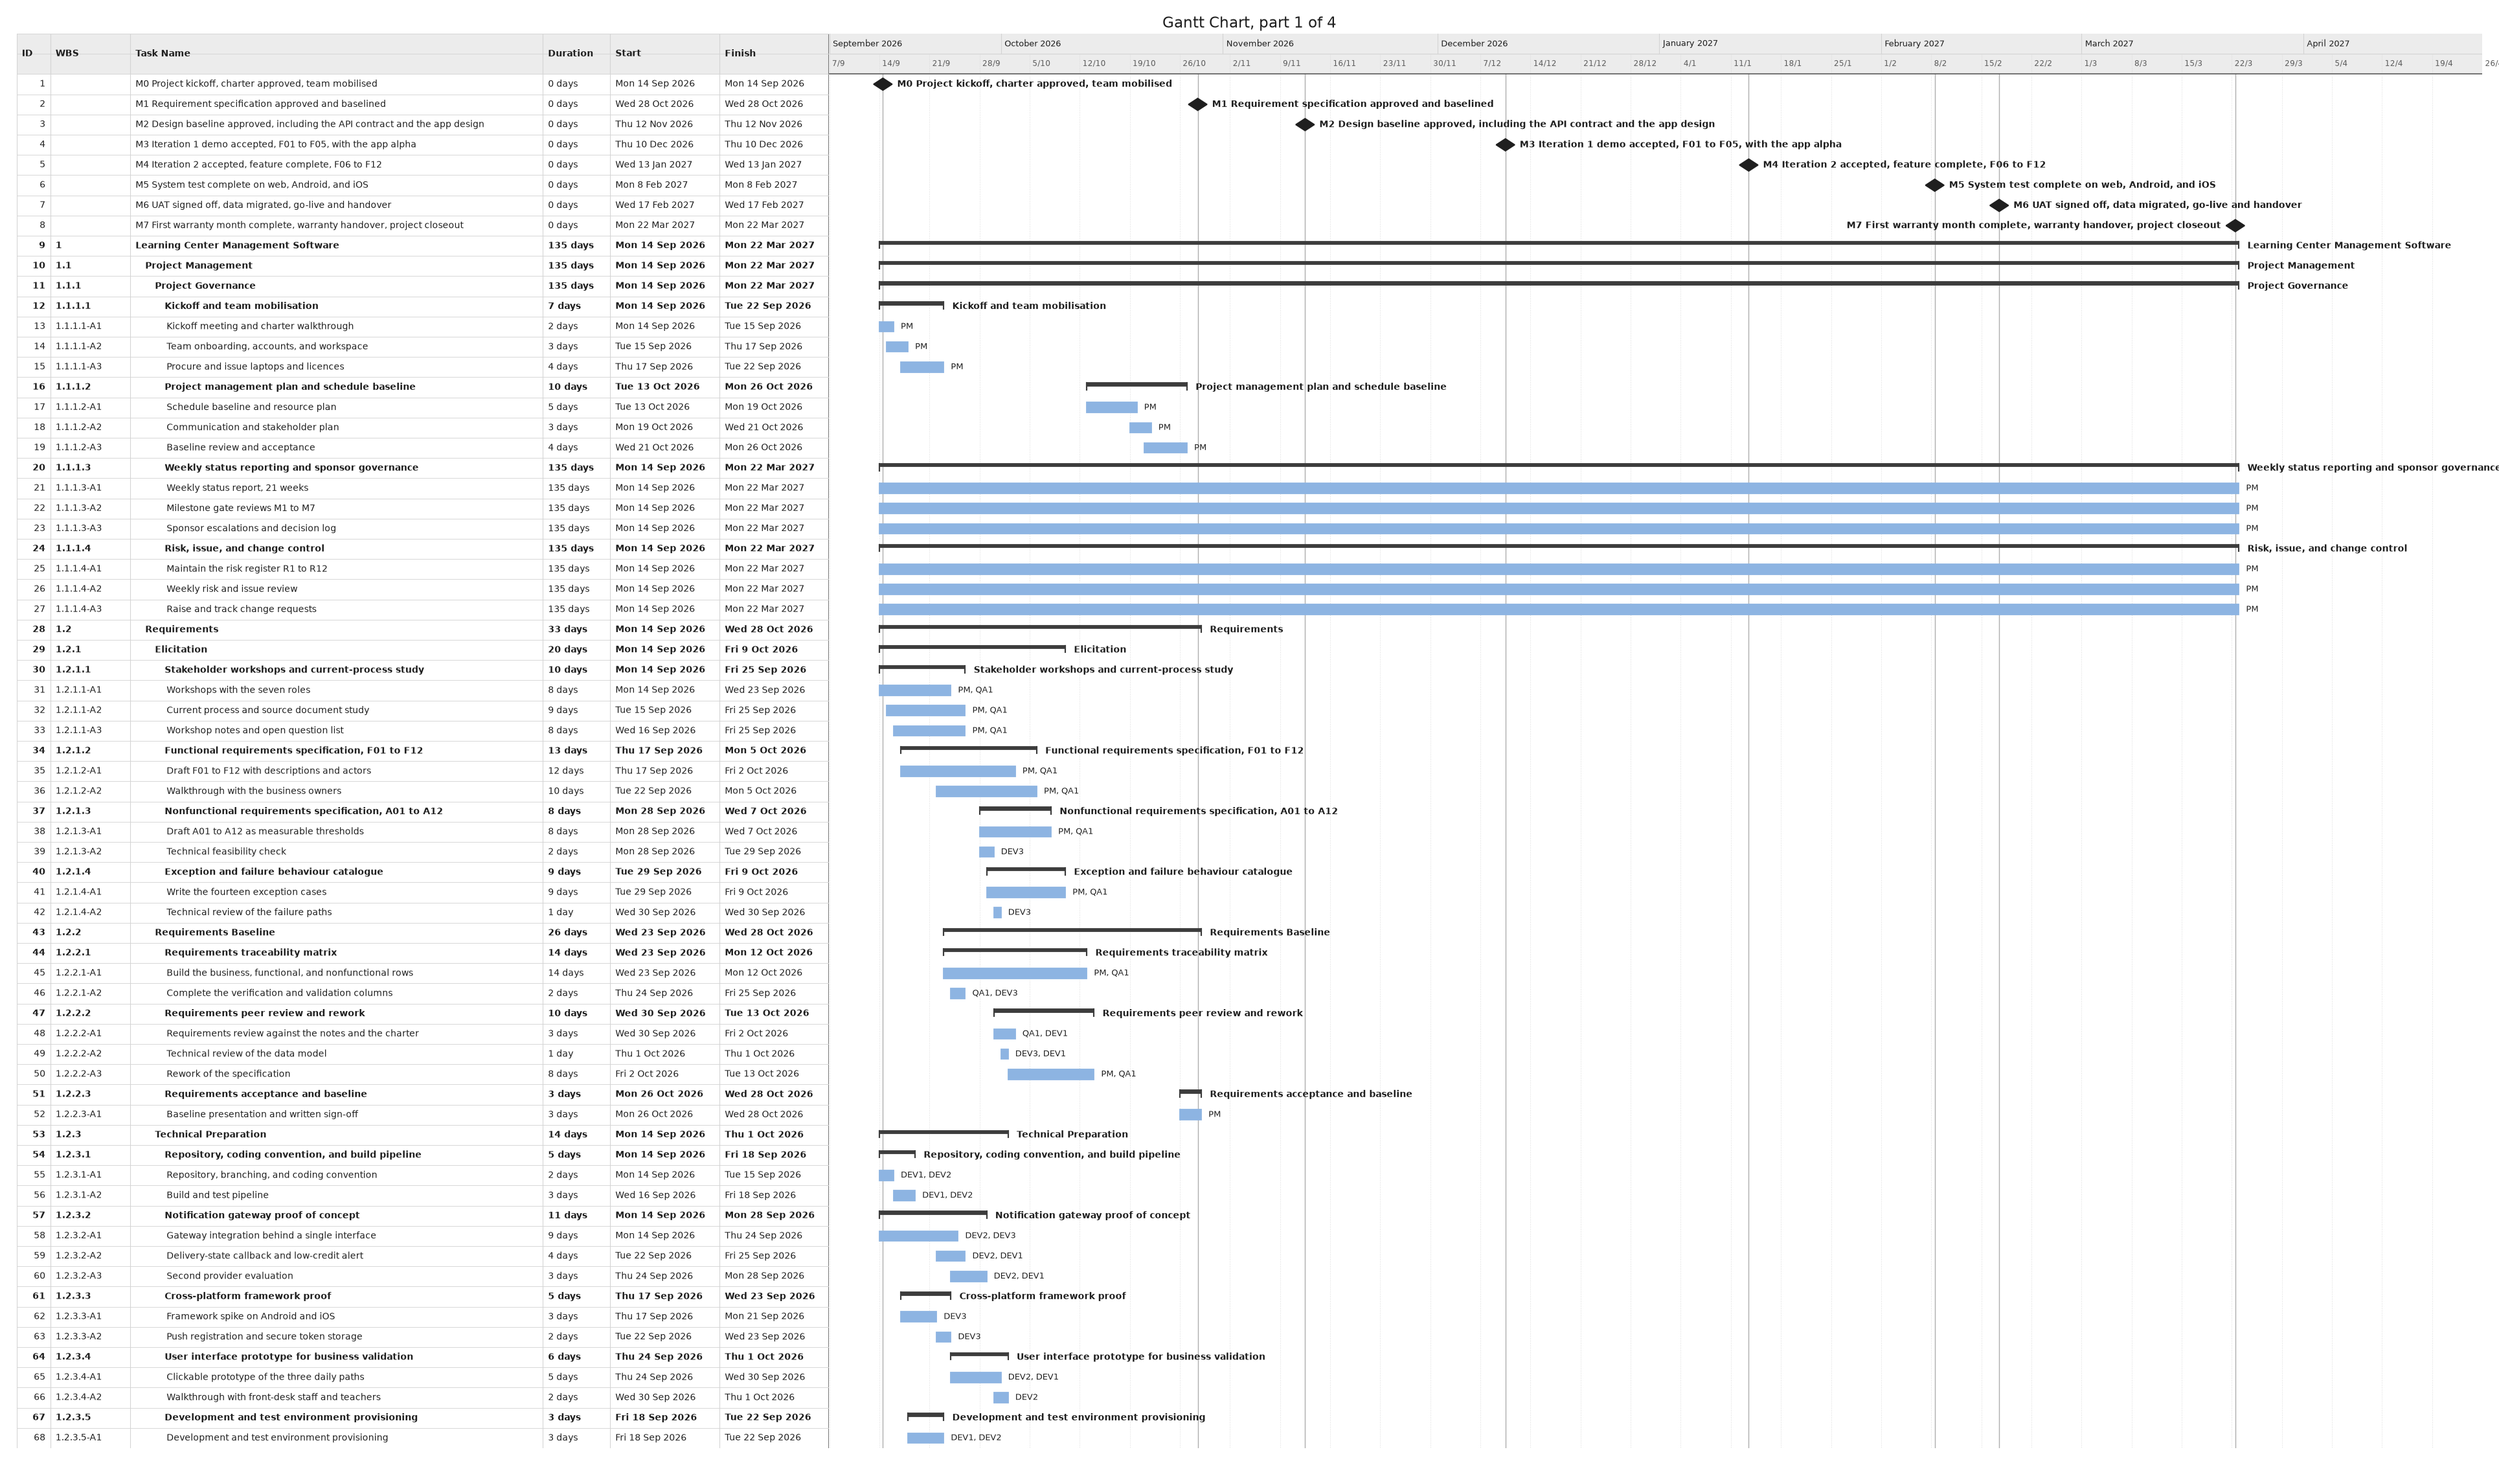
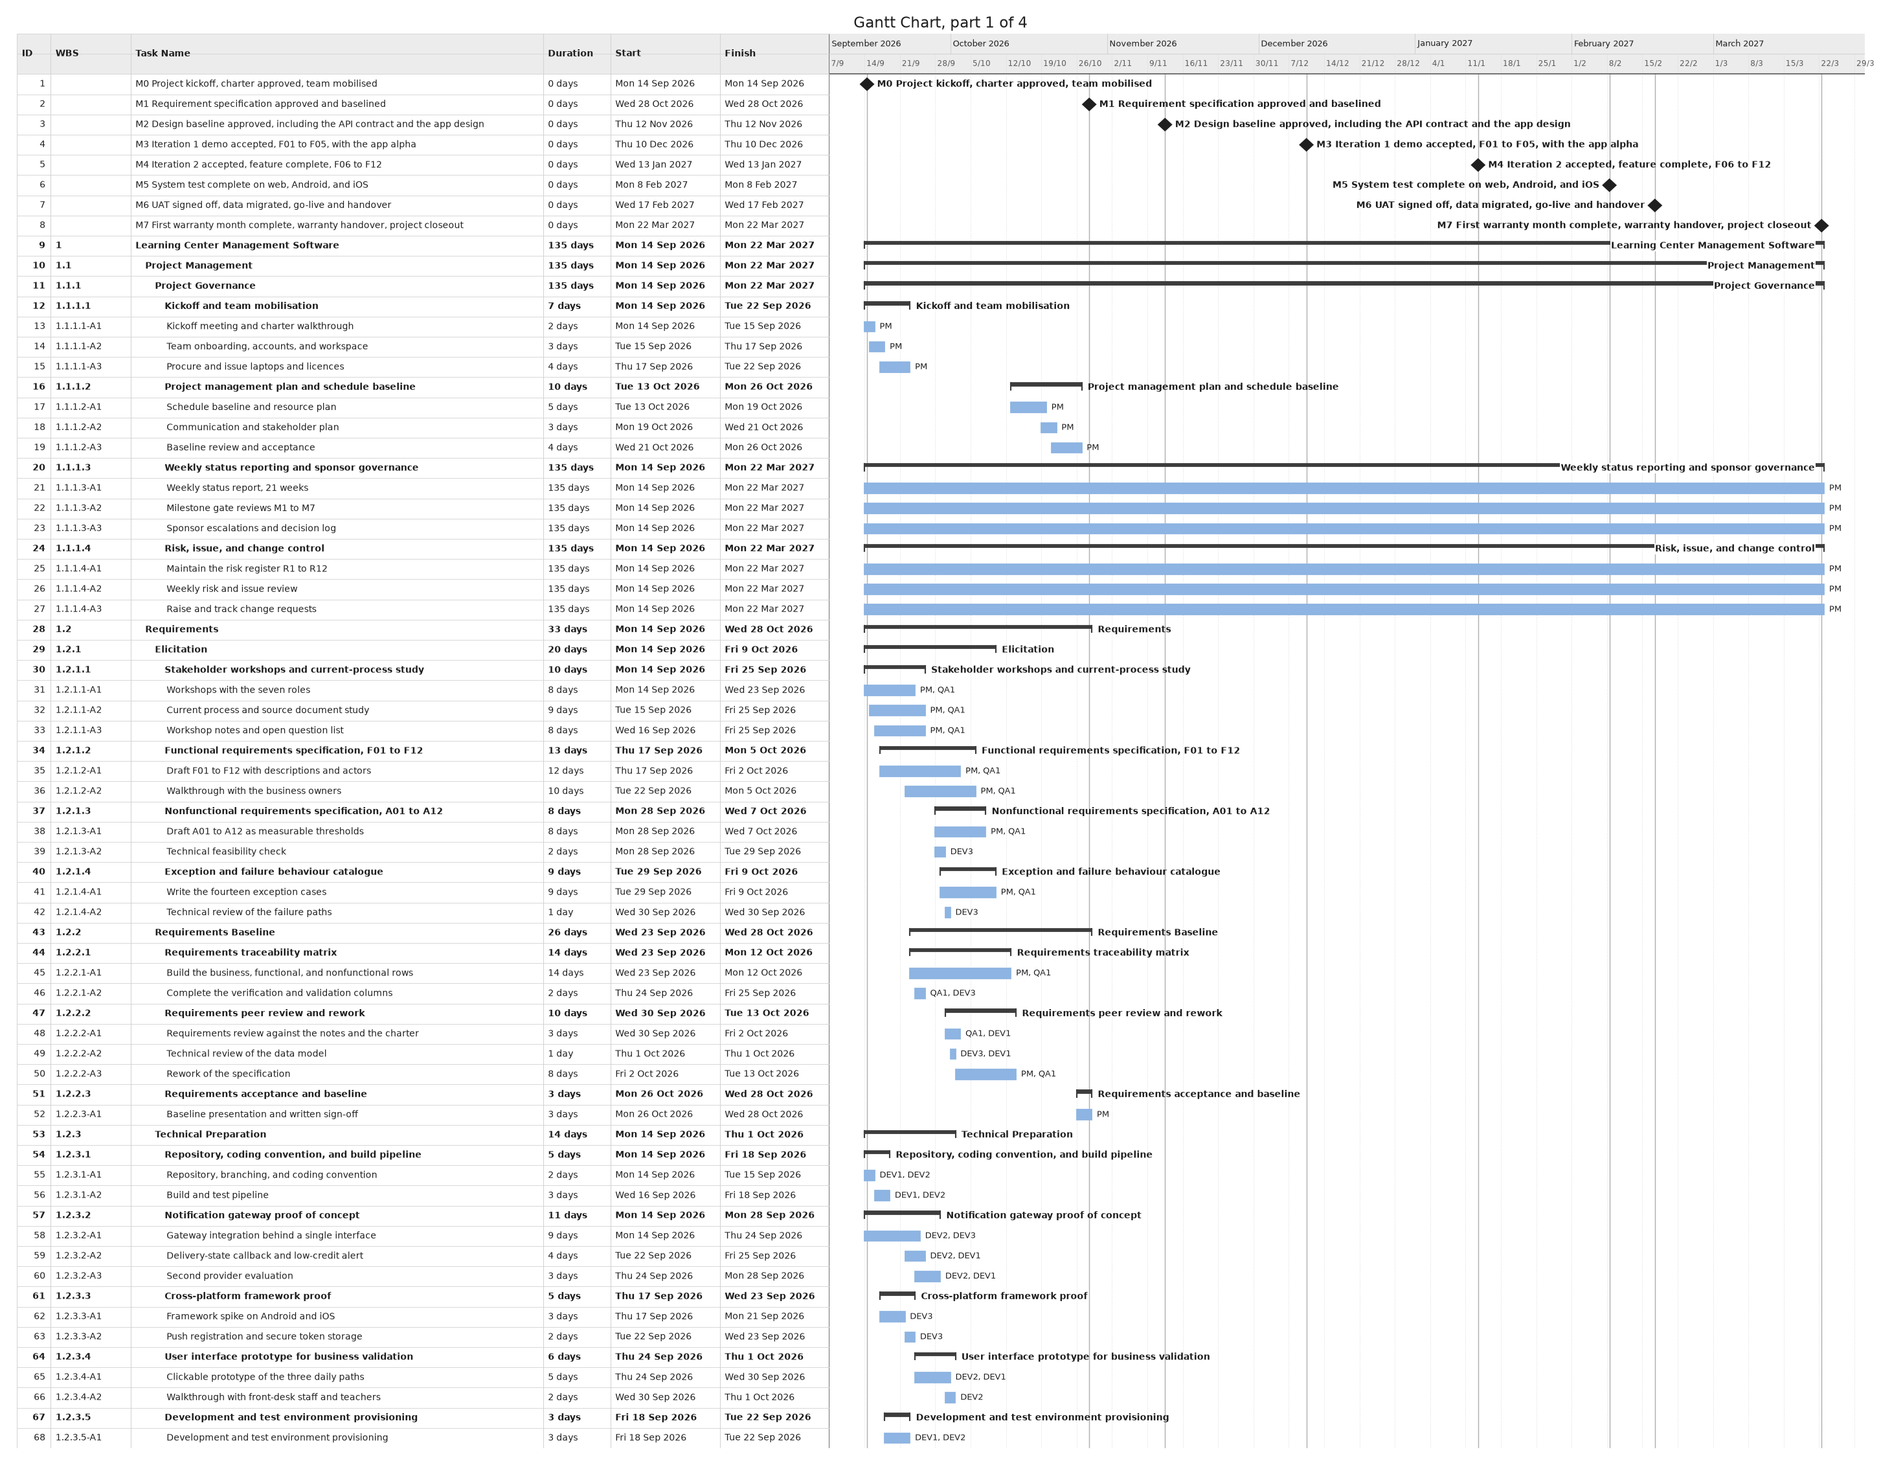
tools: schedule timescale ends with the last month of work
The Gantt and milestone charts stop at the end of March 2027 instead of
running five weeks past the last bar, and a day is drawn narrower. A bar
label that has no room on either side sits inside the bar's end.

diff --git a/tools/schedule.py b/tools/schedule.py
@@ -38,6 +38,7 @@ SHORT_MONTH = {m[:3]: m for m in MONTHS}
 CHARTER_DATE = re.compile(r"\b(Mon|Tue|Wed|Thu|Fri|Sat|Sun) (\d{1,2}) ([A-Z][a-z]{2}) (\d{4})\b")
 PEOPLE = ("PM", "DEV1", "DEV2", "DEV3", "QA1", "MOB1")
 ROWS_PER_PAGE = 95
+INCHES_PER_DAY = 0.06   # width of one calendar day on the timescale
 
 
 def parse_outline(text):
@@ -168,7 +169,7 @@ def draw_sheet(items, columns, title, path, x_range, gates=(), baseline=None):
     one = datetime.timedelta(days=1)
 
     first, last = x_range
-    chart_w = max(10.0, (last - first).days * 0.085)
+    chart_w = max(8.0, (last - first).days * INCHES_PER_DAY)
     table_w = sum(c[1] for c in columns)
     n = len(items)
     height = (n + head_rows) * row_h + 0.6
@@ -233,6 +234,22 @@ def draw_sheet(items, columns, title, path, x_range, gates=(), baseline=None):
         gx = mdates.date2num(day) + 0.5
         chart.plot([gx, gx], [-0.5, n - 0.5], color=gate, linewidth=0.8, zorder=0)
 
+    def side_label(right, left, i, text, size, weight):
+        """Label right of a mark; left of it when that would run past the timescale; inside
+        the bar's end, on a white backing, when neither side has room."""
+        per_char = 0.0085 if weight == "bold" else 0.0075
+        width_days = len(text) * size * per_char / INCHES_PER_DAY
+        if right + width_days < x1:
+            chart.text(right, i, text, va="center", ha="left", fontsize=size, color=ink,
+                       weight=weight)
+        elif left - width_days > x0:
+            chart.text(left, i, text, va="center", ha="right", fontsize=size, color=ink,
+                       weight=weight)
+        else:
+            chart.text(right - 3.0, i, text, va="center",
+                       ha="right", fontsize=size, color=ink, weight=weight, zorder=4,
+                       bbox=dict(facecolor="white", edgecolor="none", pad=0.6))
+
     def diamond_at(m, i, filled):
         chart.add_patch(Polygon([(m - 1.3, i), (m, i - 0.3), (m + 1.3, i), (m, i + 0.3)],
                                 facecolor=diamond if filled else "white", edgecolor=diamond,
@@ -249,28 +266,30 @@ def draw_sheet(items, columns, title, path, x_range, gates=(), baseline=None):
                     chart.plot([b, m], [i, i], color=gate, linewidth=0.8, zorder=2)
                 diamond_at(b, i, False)
             diamond_at(m, i, True)
-            fits = m + 2.0 + len(item["label"]) * 0.075 / 0.085 < x1
-            chart.text(m + 2.0 if fits else m - 2.0, i, item["label"], va="center",
-                       ha="left" if fits else "right", fontsize=fs, color=ink, weight="bold")
+            side_label(m + 2.0, m - 2.0, i, item["label"], fs, "bold")
         elif item["kind"] == "summary":
             chart.add_patch(Rectangle((s, i - 0.22), e - s, 0.14, color=summary, zorder=3))
             for ex in (s, e):
                 chart.plot([ex, ex], [i - 0.22, i + 0.12], color=summary, linewidth=1.2, zorder=3)
-            chart.text(e + 1.2, i, item["label"], va="center", fontsize=fs, color=ink,
-                       weight="bold")
+            side_label(e + 1.2, s - 1.2, i, item["label"], fs, "bold")
         else:
             chart.add_patch(Rectangle((s, i - 0.25), e - s, 0.5, color=bar, zorder=3))
-            chart.text(e + 1.0, i, item["label"], va="center", fontsize=fs - 0.5, color=ink)
+            side_label(e + 1.0, s - 1.0, i, item["label"], fs - 0.5, "normal")
 
     path.parent.mkdir(parents=True, exist_ok=True)
     fig.savefig(path, facecolor="white")
     plt.close(fig)
 
 
+def month_end(day):
+    """The timescale stops at the end of the month the last bar ends in."""
+    return (day.replace(day=28) + datetime.timedelta(days=4)).replace(day=1) - datetime.timedelta(days=1)
+
+
 def x_range_of(items):
     first = min(i["start"] for i in items)
     first -= datetime.timedelta(days=first.weekday() + 7)
-    return first, max(i["finish"] for i in items) + datetime.timedelta(days=35)
+    return first, month_end(max(i["finish"] for i in items))
 
 
 def draw_gantt(pages, forecast, x_range):
@@ -308,7 +327,7 @@ def draw_milestones(milestones, forecast, path):
     ]
     first = min(list(baseline.values()) + [i["start"] for i in items])
     x_range = (first - datetime.timedelta(days=first.weekday() + 7),
-               max(i["finish"] for i in items) + datetime.timedelta(days=28))
+               month_end(max(i["finish"] for i in items)))
     draw_sheet(items, columns, "Milestone Chart: hollow diamond at the charter date, filled at "
                "the levelled forecast", path, x_range, baseline=baseline)
 
